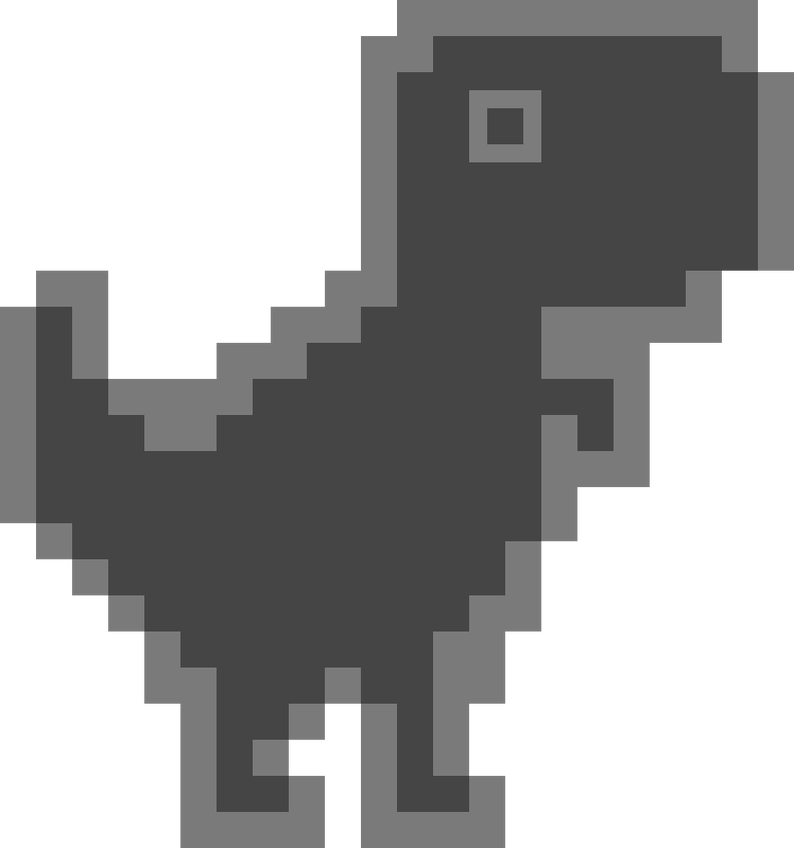
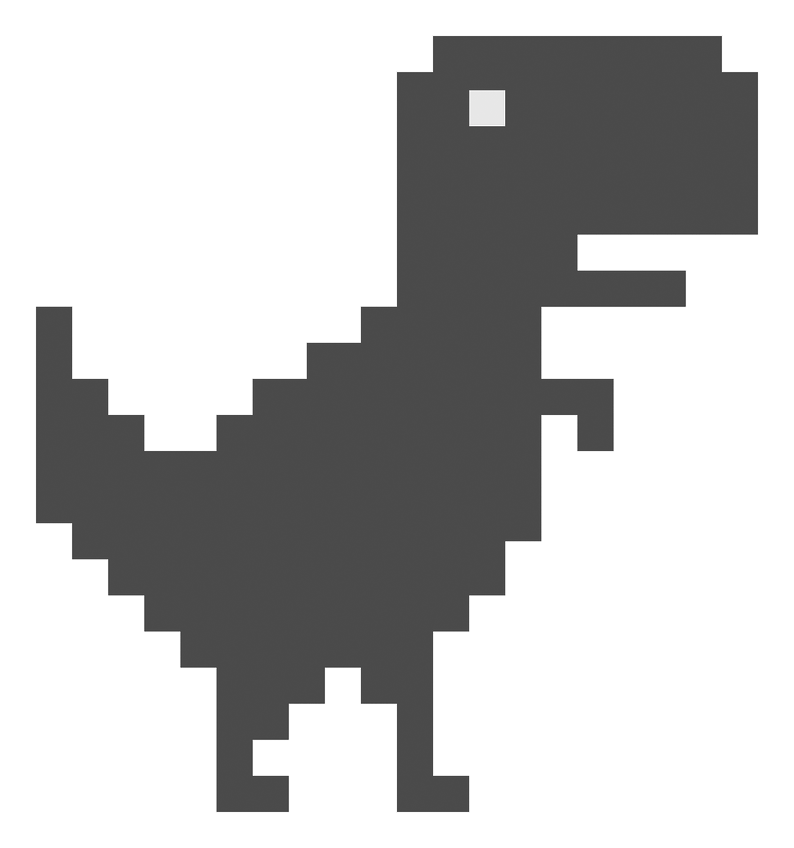
Added some functionality
Still needs a lot more

Changed region(s): [[0.0, 0.0, 1.0, 1.0], [0.5743, 0.092, 0.6952, 0.2146]]

diff --git a/main.py b/main.py
@@ -5,20 +5,31 @@ import random
 pygame.init()
 
 # Variables
+WIDTH, HEIGHT = 1000, 400
+window = pygame.display.set_mode([WIDTH, HEIGHT])
 
-window = pygame.display.set_mode([1000, 400])
-
-BG = (255, 246, 213)
+BG = (255, 255, 255)
 
 # Obstacles
-LITTLE_CACTUS = pygame.image.load(os.path.join('DinosaurGame', 'Assets', 'Little_Cactus.png'))
-BIG_CACTUS = pygame.image.load(os.path.join('DinosaurGame', 'Assets', 'Big_Cactus.png'))
-CACTUS_GROUP = pygame.image.load(os.path.join('DinosaurGame', 'Assets', 'Cactus_Group.png'))
-BIRD = pygame.image.load(os.path.join('DinosaurGame', 'Assets', 'Bird.py'))
+# LITTLE_CACTUS = pygame.image.load(os.path.join('DinosaurGame', 'Assets', 'Little_Cactus.png'))
+# BIG_CACTUS = pygame.image.load(os.path.join('DinosaurGame', 'Assets', 'Big_Cactus.png'))
+# CACTUS_GROUP = pygame.image.load(os.path.join('DinosaurGame', 'Assets', 'Cactus_Group.png'))
+# BIRD = pygame.image.load(os.path.join('DinosaurGame', 'Assets', 'Bird.png'))
 
+# Dino walk cycles
+DINO0 = pygame.transform.scale(pygame.image.load(os.path.join('DinosaurGame', 'Assets', 'Dinosaur0.png')), (50, 50))
+DINO1 = pygame.transform.scale(pygame.image.load(os.path.join('DinosaurGame', 'Assets', 'Dinosaur1.png')), (50, 50))
+DINO2 = pygame.transform.scale(pygame.image.load(os.path.join('DinosaurGame', 'Assets', 'Dinosaur2.png')), (50, 50))
+DINO_RECT = pygame.Rect(50, HEIGHT / 2 - 35, 50, 50)
+
+GROUND = pygame.image.load(os.path.join('DinosaurGame', 'Assets', 'Ground.png'))
+GROUND_RECT = pygame.Rect((0, HEIGHT / 2 - 35), (1200, 20))
+GROUND_RECT2 = pygame.Rect((1200, HEIGHT / 2 - 35), (1200, 20))
 # Background images
-BG_LINE = pygame.image.load(os.path.join('DinosaurGame', 'Assets', 'BG_LINE.png'))
-CLOUDS = pygame.image.load(os.path.join('DinosaurGame', 'Assets', 'Cloud.png'))
+# BG_LINE = pygame.image.load(os.path.join('DinosaurGame', 'Assets', 'BG_LINE.png'))
+# CLOUDS = pygame.image.load(os.path.join('DinosaurGame', 'Assets', 'Cloud.png'))
+
+clock = pygame.time.Clock()
 
 def HIGH_JUMP():
     print("High Jump")
@@ -29,27 +40,77 @@ def LOW_JUMP():
 def DUCK():
     print("Duck")
 
+def HANDLE_GROUND(speed):
+    GROUND_RECT.x = GROUND_RECT.x - speed
+    GROUND_RECT2.x = GROUND_RECT2.x - speed
 
-def DRAW_WINDOW():
+    if GROUND_RECT.x <= -1200:
+        GROUND_RECT.x = 0
+
+    if GROUND_RECT2.x <= 0:
+        GROUND_RECT2.x = 1200
+
+def GENERATE_OBSTACLE():
+    print("duck")
+
+def DRAW_WINDOW(cycle_iterations):
     window.fill(BG)
+    
+    window.blit(GROUND, (GROUND_RECT.x, HEIGHT / 2 - 15))
+    window.blit(GROUND, (GROUND_RECT2.x, HEIGHT / 2 - 15))
+
+    if DINO_RECT.y < 150:
+        window.blit(DINO0, (DINO_RECT.x, DINO_RECT.y))
+    else:
+        if cycle_iterations == 1:
+            window.blit(DINO1, (DINO_RECT.x, DINO_RECT.y))
+        if cycle_iterations == 2:
+            window.blit(DINO2, (DINO_RECT.x, DINO_RECT.y))
+
+    pygame.display.update()
 
 def main():
     running = True
-
+    cycle_iterations = 1
+    timing = 0
+    speed = 3
+    MOVEMENT = 0
+    TIME_BETWEEN_OBSTACLE = 180
     while running:
+        clock.tick(60)
         for event in pygame.event.get():
             if event.type == pygame.QUIT:
                 running = False
 
             if event.type == pygame.KEYDOWN:
                 # Space is high jump, and up arrow is low jump
-                if event.key == pygame.K_SPACE or event.key == pygame.K_w:
-                    HIGH_JUMP()
-                if event.key == pygame.K_UP:
-                    LOW_JUMP()
+                if event.key == pygame.K_SPACE and DINO_RECT.y >= 150 or event.key == pygame.K_w and DINO_RECT.y >= 150:
+                    MOVEMENT = 15
+                if event.key == pygame.K_UP and DINO_RECT.y >= 150:
+                    MOVEMENT = 10
                 if event.key == pygame.K_DOWN:
                     DUCK()
+        timing += 1
+        if timing % 6 == 0:
+            cycle_iterations += 1
+            if cycle_iterations >= 3:
+                cycle_iterations -= 2
+        if timing % 300 == 0:
+            TIME_BETWEEN_OBSTACLE -= 5
+            speed += 1
 
+        if timing % TIME_BETWEEN_OBSTACLE == 0:
+            GENERATE_OBSTACLE()
+
+        # Handling movement
+        if MOVEMENT >= 0:
+            DINO_RECT.y -= 6
+            MOVEMENT -= 1
+        elif DINO_RECT.y < 150:
+            DINO_RECT.y += 6
+        
+        HANDLE_GROUND(speed)
+        DRAW_WINDOW(cycle_iterations)
     
 
 if __name__ == '__main__':
